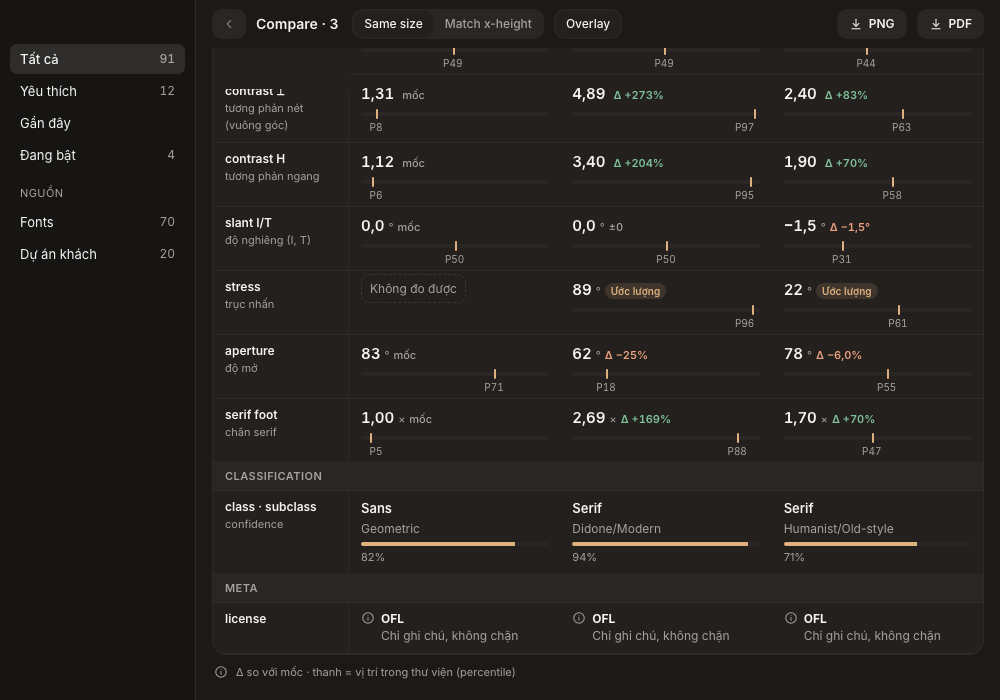
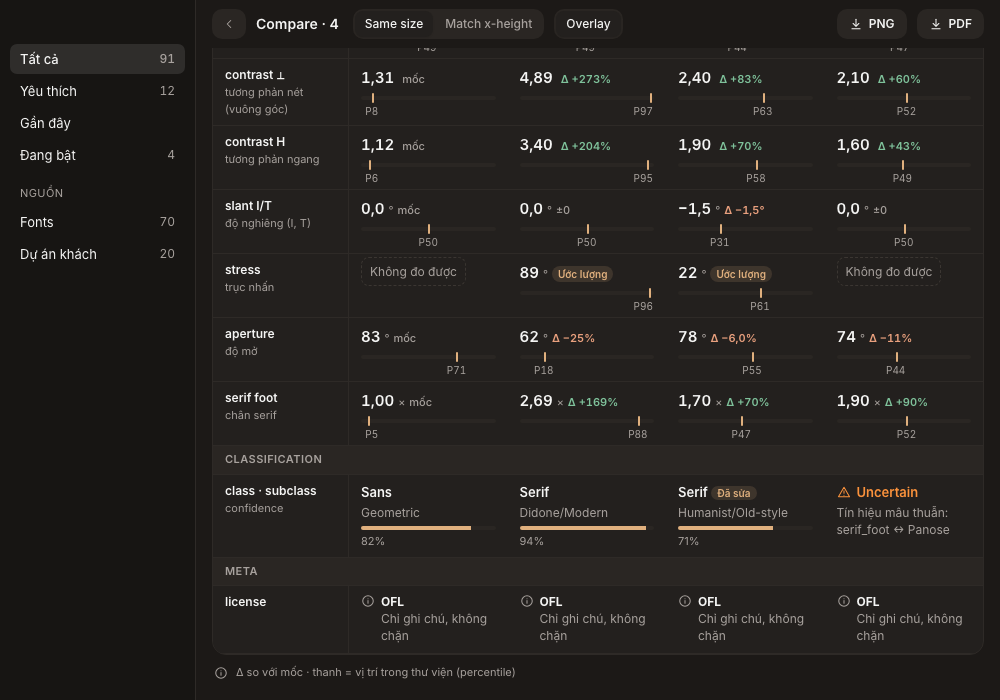
docs(design): Compare mock uses classificationInfo DTO names (feat/classify 1359fdf), override chip

diff --git a/docs/design/prototype/topbar-compare-v1.html b/docs/design/prototype/topbar-compare-v1.html
@@ -128,7 +128,7 @@ const T = {
   'compare.png': 'PNG', 'compare.pdf': 'PDF', 'compare.mock': 'Bản mẫu — chưa xuất thật', 'compare.est': 'Ước lượng', 'compare.na': 'Không đo được',
   'compare.sec.spec': 'Specimen', 'compare.sec.metrics': 'Số đo', 'compare.sec.class': 'Classification', 'compare.sec.meta': 'Meta',
   'compare.row.line': 'Phở bò', 'compare.row.vi': 'Dấu chồng', 'compare.row.overlay': 'Overlay',
-  'compare.viWarn': 'Dấu tràn {p}%', 'compare.viOk': 'Dấu vừa khung', 'compare.uncertain': 'Uncertain', 'compare.conflict': 'Tín hiệu mâu thuẫn', 'compare.license': 'Chỉ ghi chú, không chặn',
+  'compare.viWarn': 'Dấu tràn {p}%', 'compare.viOk': 'Dấu vừa khung', 'compare.uncertain': 'Uncertain', 'compare.conflict': 'Tín hiệu mâu thuẫn', 'compare.edited': 'Đã sửa', 'compare.license': 'Chỉ ghi chú, không chặn',
   'compare.base': 'mốc', 'compare.pct': 'P{p}', 'compare.footnote': 'Δ so với mốc · thanh = vị trí trong thư viện (percentile)',
 };
 const t = (k, v = {}) => (T[k] ?? k).replace(/\{(\w+)\}/g, (_, x) => v[x]);
@@ -141,10 +141,10 @@ const nf = (v, d) => new Intl.NumberFormat('vi-VN', { minimumFractionDigits: d, 
 
 /* DỮ LIỆU GIẢ — tên trường theo kế hoạch D1 (class, subclass, confidence, signals[]). Không phải font của chủ app. */
 const FONTS = [
-  { id: 'a', fam: 'Be Vietnam Pro', css: "'Be Vietnam Pro'", cls: 'Sans', sub: 'Geometric', conf: .82, m: { xh: .528, cap: .708, cp: 1.31, ch: 1.12, sl: 0, st: null, ap: 83, sf: 1.0 }, p: { xh: 58, cap: 49, cp: 8, ch: 6, sl: 50, st: null, ap: 71, sf: 5 }, viOver: 0, lic: 'OFL', foundry: 'ildeva' },
-  { id: 'b', fam: 'Playfair Display', css: "'Playfair Display'", cls: 'Serif', sub: 'Didone/Modern', conf: .94, m: { xh: .514, cap: .708, cp: 4.89, ch: 3.4, sl: 0, st: 89, ap: 62, sf: 2.69 }, p: { xh: 41, cap: 49, cp: 97, ch: 95, sl: 50, st: 96, ap: 18, sf: 88 }, viOver: 9, lic: 'OFL', foundry: 'Claus Eggers Sørensen' },
-  { id: 'c', fam: 'Fraunces', css: "'Fraunces'", cls: 'Serif', sub: 'Humanist/Old-style', conf: .71, m: { xh: .464, cap: .7, cp: 2.4, ch: 1.9, sl: -1.5, st: 22, ap: 78, sf: 1.7 }, p: { xh: 18, cap: 44, cp: 63, ch: 58, sl: 31, st: 61, ap: 55, sf: 47 }, viOver: 0, lic: 'OFL', foundry: 'Undercase Type' },
-  { id: 'd', fam: 'Lora', css: "'Lora'", cls: null, sub: null, conf: .38, signals: ['serif_foot ↔ Panose'], m: { xh: .5, cap: .7, cp: 2.1, ch: 1.6, sl: 0, st: null, ap: 74, sf: 1.9 }, p: { xh: 33, cap: 47, cp: 52, ch: 49, sl: 50, st: null, ap: 44, sf: 52 }, viOver: 0, lic: 'OFL', foundry: 'Cyreal' },
+  { id: 'a', fam: 'Be Vietnam Pro', css: "'Be Vietnam Pro'", classificationInfo: { class: 'sans', label: 'Sans', subclass: 'Geometric', confidence: .82, signals: ['aperture','width','panose'], usage: ['Text','UI'], source: 'auto', autoClass: 'sans' }, m: { xh: .528, cap: .708, cp: 1.31, ch: 1.12, sl: 0, st: null, ap: 83, sf: 1.0 }, p: { xh: 58, cap: 49, cp: 8, ch: 6, sl: 50, st: null, ap: 71, sf: 5 }, viOver: 0, lic: 'OFL', foundry: 'ildeva' },
+  { id: 'b', fam: 'Playfair Display', css: "'Playfair Display'", classificationInfo: { class: 'serif', label: 'Serif', subclass: 'Didone/Modern', confidence: .94, signals: ['contrast','stress_deg','serif_foot'], usage: ['Display'], source: 'auto', autoClass: 'serif' }, m: { xh: .514, cap: .708, cp: 4.89, ch: 3.4, sl: 0, st: 89, ap: 62, sf: 2.69 }, p: { xh: 41, cap: 49, cp: 97, ch: 95, sl: 50, st: 96, ap: 18, sf: 88 }, viOver: 9, lic: 'OFL', foundry: 'Claus Eggers Sørensen' },
+  { id: 'c', fam: 'Fraunces', css: "'Fraunces'", classificationInfo: { class: 'serif', label: 'Serif', subclass: 'Humanist/Old-style', confidence: .71, signals: ['serif_foot','stress_deg'], usage: ['Text','Display'], source: 'override', autoClass: 'display' }, m: { xh: .464, cap: .7, cp: 2.4, ch: 1.9, sl: -1.5, st: 22, ap: 78, sf: 1.7 }, p: { xh: 18, cap: 44, cp: 63, ch: 58, sl: 31, st: 61, ap: 55, sf: 47 }, viOver: 0, lic: 'OFL', foundry: 'Undercase Type' },
+  { id: 'd', fam: 'Lora', css: "'Lora'", classificationInfo: { class: 'uncertain', label: 'Uncertain', subclass: null, confidence: .38, signals: ['serif_foot ↔ Panose'], usage: [], source: 'auto', autoClass: 'uncertain' }, m: { xh: .5, cap: .7, cp: 2.1, ch: 1.6, sl: 0, st: null, ap: 74, sf: 1.9 }, p: { xh: 33, cap: 47, cp: 52, ch: 49, sl: 50, st: null, ap: 44, sf: 52 }, viOver: 0, lic: 'OFL', foundry: 'Cyreal' },
 ];
 const ROWS = [ // key, label, đơn vị, số lẻ, "ước lượng"
   ['xh', 'x-height', 'em', 3], ['cap', 'cap height', 'em', 3], ['cp', 'contrast ⊥', '', 2], ['ch', 'contrast H', '', 2],
@@ -214,9 +214,9 @@ function compare() {
   h += `<div class="gh">${t('compare.sec.metrics')}</div>`;
   for (const r of ROWS) h += `<div class="rh"><b>${r[1]}</b><small>${GLOSS[r[1]] || ''}</small></div>` + cell(f => mCell(f, base, r));
   if (st.cls) {
-    h += `<div class="gh">${t('compare.sec.class')}</div><div class="rh"><b>class · subclass</b><small>confidence</small></div>` + cell(f => f.cls
-      ? `<div class="cls"><span class="c">${f.cls}</span><span class="sc">${f.sub}</span><div class="conf" aria-label="${Math.round(f.conf * 100)}%"><i style="width:${f.conf * 100}%"></i></div><span class="m" style="font-size:11px;color:var(--muted)">${nf(f.conf * 100, 0)}%</span></div>`
-      : `<div class="cls"><span class="unc">${I('alert', 's')}${t('compare.uncertain')}</span><span class="sc">${t('compare.conflict')}: ${f.signals.join(', ')}</span></div>`);
+    h += `<div class="gh">${t('compare.sec.class')}</div><div class="rh"><b>class · subclass</b><small>confidence</small></div>` + cell(f => f.classificationInfo.class !== 'uncertain'
+      ? `<div class="cls"><span class="c">${f.classificationInfo.label}${f.classificationInfo.source === 'override' ? ` <span class="est" data-tip="auto: ${f.classificationInfo.autoClass}">${t('compare.edited')}</span>` : ''}</span><span class="sc">${f.classificationInfo.subclass}</span><div class="conf" aria-label="${Math.round(f.classificationInfo.confidence * 100)}%"><i style="width:${f.classificationInfo.confidence * 100}%"></i></div><span class="m" style="font-size:11px;color:var(--muted)">${nf(f.classificationInfo.confidence * 100, 0)}%</span></div>`
+      : `<div class="cls"><span class="unc">${I('alert', 's')}${t('compare.uncertain')}</span><span class="sc">${t('compare.conflict')}: ${f.classificationInfo.signals.join(', ')}</span></div>`);
   }
   h += `<div class="gh">${t('compare.sec.meta')}</div><div class="rh"><b>license</b></div>` + cell(f => `<div class="lic">${I('info', 's')}<span><b style="color:var(--fg)">${f.lic}</b><br>${t('compare.license')}</span></div>`);
   h += '</div>';
